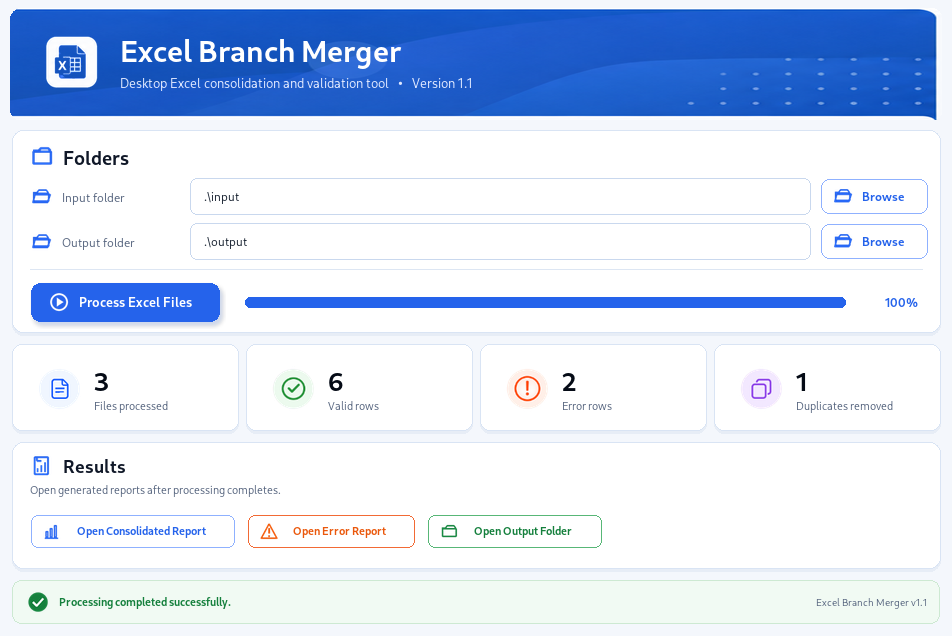
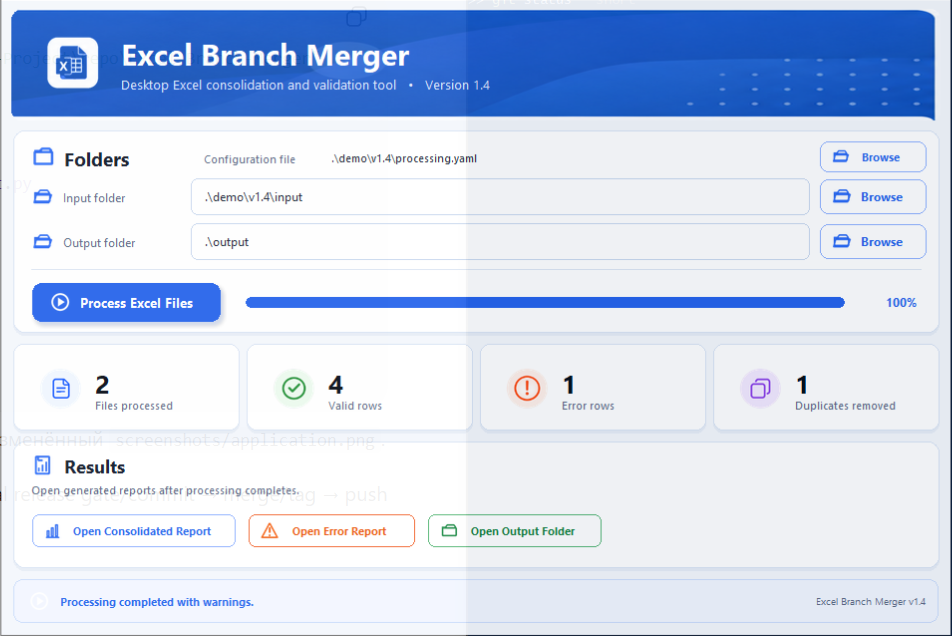
release: prepare v1.4

diff --git a/tests/test_pyproject_config.py b/tests/test_pyproject_config.py
@@ -13,7 +13,7 @@ def test_pyproject_contains_canonical_project_metadata() -> None:
     project = data["project"]
 
     assert project["name"] == "excel-branch-merger"
-    assert project["version"] == "1.3"
+    assert project["version"] == "1.4"
     assert project["requires-python"] == ">=3.11"
     assert project["license"] == "MIT"
 

diff --git a/src/excel_branch_merger/version.py b/src/excel_branch_merger/version.py
@@ -1,2 +1,2 @@
 APP_NAME = "Excel Branch Merger"
-__version__ = "1.3"
+__version__ = "1.4"
